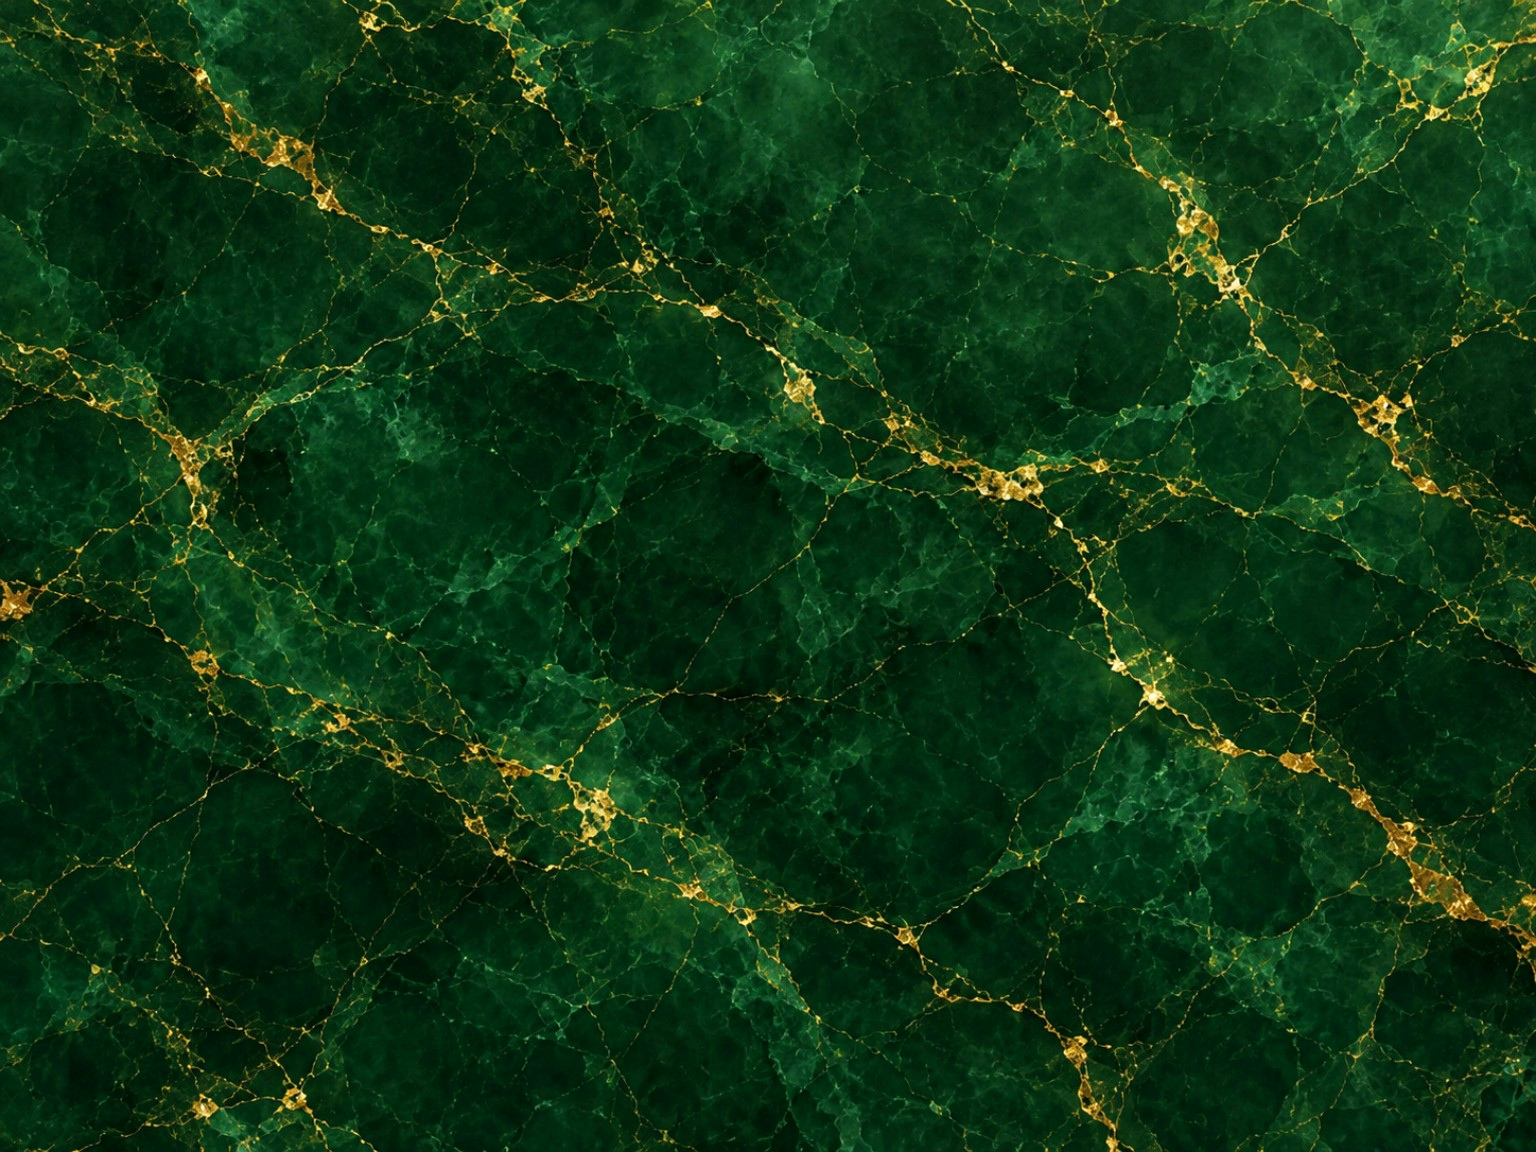
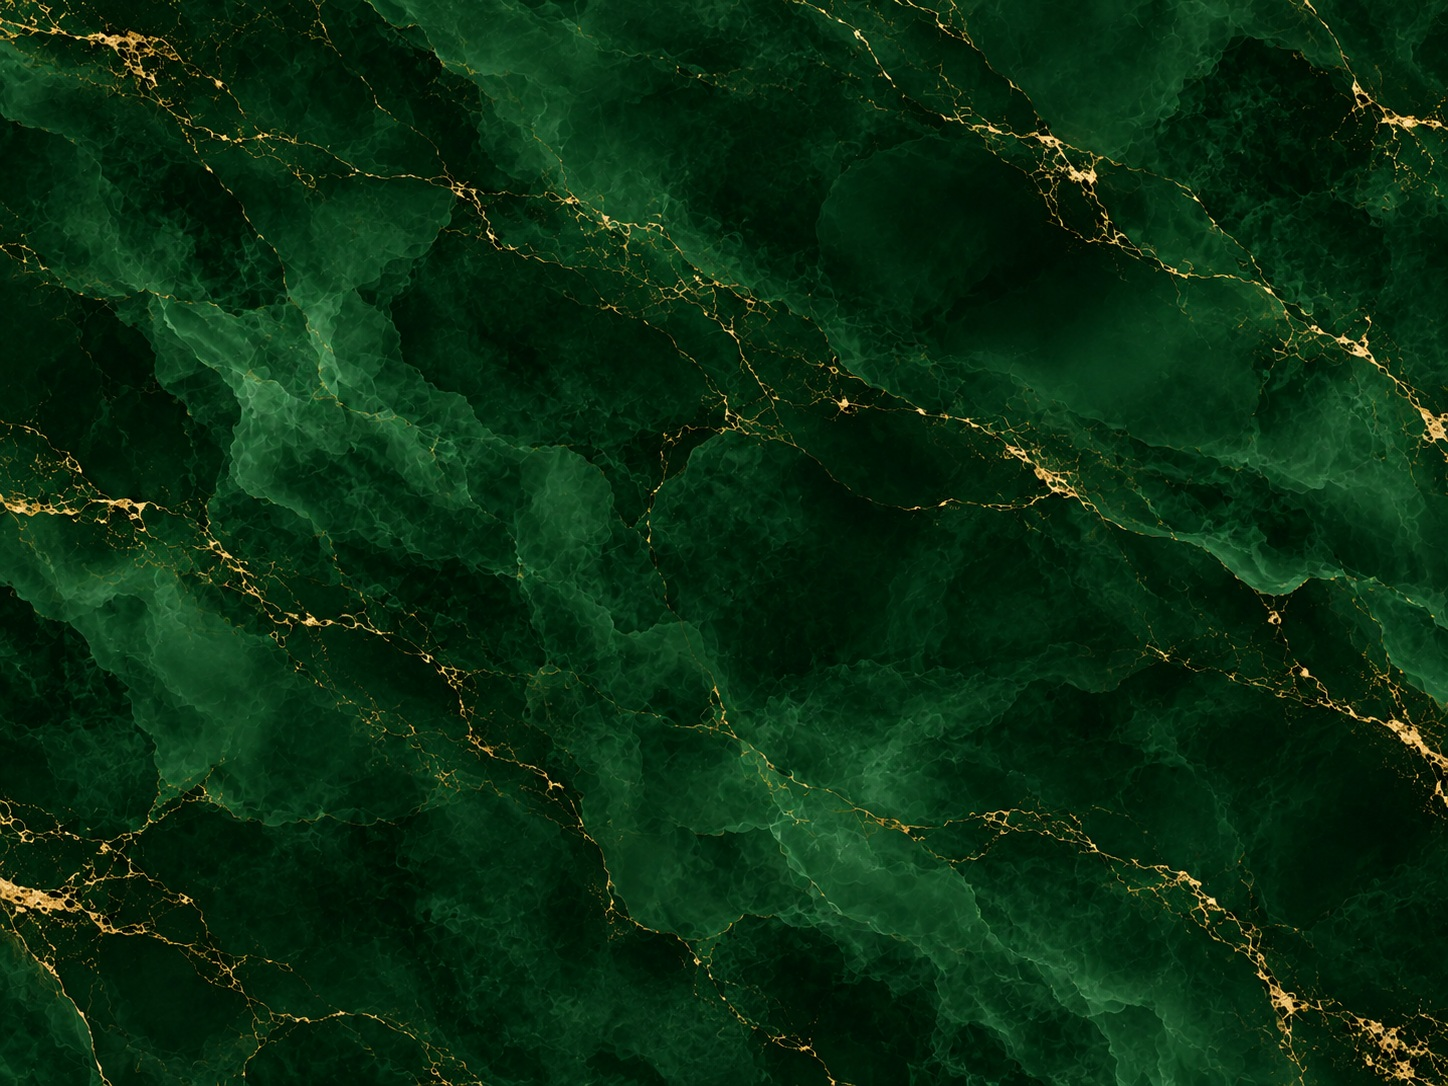
LapiGestion V3.1.28 harmonisation veto

diff --git a/lib/main.dart b/lib/main.dart
@@ -54,7 +54,7 @@ class LapibreizhApp extends StatelessWidget {
       colorScheme: ColorScheme.fromSeed(seedColor: lapiGreen, brightness: Brightness.light),
       scaffoldBackgroundColor: Colors.transparent,
       appBarTheme: const AppBarTheme(
-        backgroundColor: lapiGreenDark,
+        backgroundColor: Colors.transparent,
         foregroundColor: Colors.white,
         elevation: 0,
         scrolledUnderElevation: 0,
@@ -130,12 +130,8 @@ class LapibreizhApp extends StatelessWidget {
           iconColor: WidgetStateProperty.resolveWith(
             (states)=>states.contains(WidgetState.selected)?warmGoldText:Colors.white,
           ),
-          side: WidgetStateProperty.resolveWith(
-            (states)=>BorderSide(
-              color:states.contains(WidgetState.selected)?gold:Colors.white24,
-              width:states.contains(WidgetState.selected)?1.2:.7,
-            ),
-          ),
+          // Pas de traits internes : la sélection se lit par le texte et le fond.
+          side: const WidgetStatePropertyAll(BorderSide(color:Colors.transparent,width:0)),
           shape: WidgetStatePropertyAll(RoundedRectangleBorder(borderRadius: BorderRadius.circular(14))),
         ),
       ),
@@ -1494,7 +1490,7 @@ class _RacePickerDialogState extends State<RacePickerDialog>{
   @override Widget build(BuildContext context){
     final races=RabbitBreedCatalog.racesFor(category:category,query:query);
     return Dialog.fullscreen(child:Scaffold(
-      appBar:AppBar(title:Text(widget.title),leading:IconButton(onPressed:()=>Navigator.pop(context),icon:const Icon(Icons.close))),
+      appBar:AppBar(backgroundColor:Colors.transparent,flexibleSpace:const PremiumMarbleBar(),title:Text(widget.title),leading:IconButton(onPressed:()=>Navigator.pop(context),icon:const Icon(Icons.close))),
       body:Column(children:[
         Padding(padding:const EdgeInsets.all(14),child:TextField(
           autofocus:false,
@@ -1545,7 +1541,7 @@ class _BreedColorPickerDialogState extends State<BreedColorPickerDialog>{
       return available&&(q.isEmpty||name.toLowerCase().contains(q));
     }).toList();
     return Dialog.fullscreen(child:Scaffold(
-      appBar:AppBar(title:const Text('Choisir la couleur / variété'),leading:IconButton(onPressed:()=>Navigator.pop(context),icon:const Icon(Icons.close))),
+      appBar:AppBar(backgroundColor:Colors.transparent,flexibleSpace:const PremiumMarbleBar(),title:const Text('Choisir la couleur / variété'),leading:IconButton(onPressed:()=>Navigator.pop(context),icon:const Icon(Icons.close))),
       body:Column(children:[
         Padding(
           padding:const EdgeInsets.fromLTRB(14,14,14,6),
@@ -2055,7 +2051,7 @@ BoxDecoration premiumMarbleDecoration({
     ),
   ),
   borderRadius:BorderRadius.circular(radius),
-  border:Border.all(color:selected?const Color(0xFFFFE39A):const Color(0xFFF2C85F),width:selected?1.45:.95),
+  border:Border.all(color:selected?gold.withValues(alpha:.42):gold.withValues(alpha:.22),width:selected?.85:.55),
   boxShadow:[
     BoxShadow(
       color:Colors.black.withValues(alpha:selected ? .13 : .07),
@@ -2303,6 +2299,21 @@ class PremiumFilledButton extends StatelessWidget {
   }
 }
 
+/// Texture commune des bandeaux supérieurs : même identité sur tous les écrans.
+class PremiumMarbleBar extends StatelessWidget {
+  const PremiumMarbleBar({super.key});
+  @override Widget build(BuildContext context)=>DecoratedBox(
+    decoration:const BoxDecoration(
+      image:DecorationImage(
+        image:AssetImage('assets/images/lapigestion_green_marble.jpg'),
+        fit:BoxFit.cover,
+        alignment:Alignment.center,
+      ),
+    ),
+    child:ColoredBox(color:Color(0x1800180F)),
+  );
+}
+
 /// SegmentedButton posé sur le même marbre vert/or afin d'éviter les aplats verts ternes.
 class PremiumSegmentedButton<T> extends StatelessWidget {
   final List<ButtonSegment<T>> segments;
@@ -2342,7 +2353,10 @@ class PremiumSegmentedButton<T> extends StatelessWidget {
         style:const ButtonStyle(
           backgroundColor:WidgetStatePropertyAll(Colors.transparent),
           surfaceTintColor:WidgetStatePropertyAll(Colors.transparent),
-        ).merge(style),
+          side:WidgetStatePropertyAll(BorderSide(color:Colors.transparent,width:0)),
+        ).merge(style).copyWith(
+          side:const WidgetStatePropertyAll(BorderSide(color:Colors.transparent,width:0)),
+        ),
       ),
     ),
   );
@@ -2385,8 +2399,9 @@ class VeterinaryService {
   static bool _nacMention(Map<String,dynamic> tags){
     // Priorité aux balises qui décrivent réellement l'activité ou les espèces soignées.
     const relevantKeys=[
-      'animal','animals','veterinary','veterinary:speciality','healthcare:speciality',
-      'speciality','description','name','operator','service','services',
+      'animal','animals','animal:species','species','veterinary','veterinary:speciality',
+      'veterinary:specialty','healthcare:speciality','healthcare:specialty','speciality',
+      'specialty','description','name','operator','service','services','healthcare',
     ];
     final text=relevantKeys
         .map((key)=>tags[key])
@@ -2396,7 +2411,9 @@ class VeterinaryService {
     const words=[
       'nac','nouveaux animaux de compagnie','exotic','exotics','exotique',
       'rabbit','rabbits','lapin','lapins','rodent','rodents','rongeur','rongeurs',
-      'reptile','reptiles','avian','oiseau','oiseaux','ferret','furet','furets',
+      'reptile','reptiles','avian','oiseau','oiseaux','bird','birds','ferret','ferrets',
+      'furet','furets','guinea pig','guinea pigs','cochon d inde','cobaye','cobayes',
+      'chinchilla','hamster','hamsters','exotic animal','exotic animals',
     ];
     return words.any(text.contains);
   }
@@ -2475,6 +2492,9 @@ class VeterinaryService {
       'node["healthcare"="veterinary"](around:$radius,$latitude,$longitude);'
       'way["healthcare"="veterinary"](around:$radius,$latitude,$longitude);'
       'relation["healthcare"="veterinary"](around:$radius,$latitude,$longitude);'
+      'node["healthcare:speciality"~"veterinary",i](around:$radius,$latitude,$longitude);'
+      'way["healthcare:speciality"~"veterinary",i](around:$radius,$latitude,$longitude);'
+      'relation["healthcare:speciality"~"veterinary",i](around:$radius,$latitude,$longitude);'
       ');out center tags qt;';
 
     final decoded=await _queryOverpass(query);
@@ -2583,6 +2603,7 @@ class VeterinaryResultsPage extends StatelessWidget {
 
     return Scaffold(
       appBar:AppBar(
+      flexibleSpace:const PremiumMarbleBar(),
         title:Text(filter=='NAC'?'Vétérinaires NAC identifiés':'Vétérinaires autour de moi'),
       ),
       body:visible.isEmpty
@@ -2806,7 +2827,6 @@ class _HomePageState extends State<HomePage>{
             fit:BoxFit.cover,
             opacity:.96,
           ),
-          border:const Border(top:BorderSide(color:gold,width:1.1)),
           boxShadow:[BoxShadow(color:Colors.black.withValues(alpha:.18),blurRadius:14,offset:const Offset(0,-4))],
         ),
         child:Stack(children:[
@@ -4061,6 +4081,7 @@ class _HomePageState extends State<HomePage>{
                         onSelectionChanged:homeOrganizing?null:(v)=>setAppMode(v.first),
                         style:ButtonStyle(
                           visualDensity:VisualDensity.compact,
+                          side:const WidgetStatePropertyAll(BorderSide(color:Colors.transparent,width:0)),
                           shape:WidgetStatePropertyAll(RoundedRectangleBorder(borderRadius:BorderRadius.circular(5))),
                         ),
                       ),
@@ -4160,6 +4181,7 @@ class _RabbitPageState extends State<RabbitPage>{
     await showDialog(context:context,builder:(dialogContext)=>Dialog.fullscreen(child:Scaffold(
       backgroundColor:Colors.black,
       appBar:AppBar(
+      flexibleSpace:const PremiumMarbleBar(),
         backgroundColor:ink,foregroundColor:gold,title:const Text('Photo du lapin'),
         actions:[
           IconButton(tooltip:'Remplacer',onPressed:()async{Navigator.pop(dialogContext);await replaceRabbitPhoto();},icon:const Icon(Icons.photo_camera_back_outlined)),
@@ -5276,6 +5298,7 @@ class _RabbitPageState extends State<RabbitPage>{
       await showDialog(context:context,builder:(dialogContext)=>Dialog.fullscreen(child:Scaffold(
         backgroundColor:Colors.black,
         appBar:AppBar(
+      flexibleSpace:const PremiumMarbleBar(),
           backgroundColor:ink,foregroundColor:gold,title:Text(label),
           actions:[
             IconButton(tooltip:'Remplacer',onPressed:()async{Navigator.pop(dialogContext);await attach(key);},icon:const Icon(Icons.swap_horiz)),
@@ -5828,8 +5851,11 @@ class _RabbitPageState extends State<RabbitPage>{
           top:false,
           child:Container(
             decoration:const BoxDecoration(
-              gradient:LinearGradient(colors:[Color(0xFF0D3A26),Color(0xFF145438)]),
-              border:Border(top:BorderSide(color:Color(0x66D4AF67))),
+              image:DecorationImage(
+                image:AssetImage('assets/images/lapigestion_green_marble.jpg'),
+                fit:BoxFit.cover,
+                opacity:.98,
+              ),
             ),
             child:Row(children:[
               Expanded(child:_rabbitBottomNavItem(Icons.home_outlined,'Accueil',false,()=>Navigator.pop(context))),
@@ -5848,12 +5874,7 @@ class _RabbitPageState extends State<RabbitPage>{
           elevation:0,
           pinned:true,
           toolbarHeight:54,
-          flexibleSpace:Container(
-            decoration:const BoxDecoration(
-              gradient:LinearGradient(begin:Alignment.topLeft,end:Alignment.bottomRight,colors:[heroGreen,heroGreen2]),
-              border:Border(bottom:BorderSide(color:Color(0x55D4AF67))),
-            ),
-          ),
+          flexibleSpace:const PremiumMarbleBar(),
           title:Text(
             rr['name'].isEmpty?'Fiche du lapin':rr['name'],
             style:const TextStyle(fontFamily:'serif',fontSize:20,fontWeight:FontWeight.w800,color:Colors.white),
@@ -7160,7 +7181,7 @@ class _CompetitionDialogState extends State<CompetitionDialog>{
     final hasPhoto=newPhotoSource!=null||(!removePhoto&&((d['photo']??'') as String).isNotEmpty);
     final hasSheet=newSheetSource!=null||(!removeSheet&&((d['judgingSheet']??'') as String).isNotEmpty);
     return Dialog.fullscreen(child:Scaffold(
-      appBar:AppBar(title:const Text('Concours & Exposition'),actions:[TextButton(onPressed:save,child:const Text('ENREGISTRER'))]),
+      appBar:AppBar(backgroundColor:Colors.transparent,flexibleSpace:const PremiumMarbleBar(),title:const Text('Concours & Exposition'),actions:[TextButton(onPressed:save,child:const Text('ENREGISTRER'))]),
       body:ListView(padding:const EdgeInsets.all(16),children:[
         Container(
           padding:const EdgeInsets.all(14),
@@ -7459,6 +7480,7 @@ class _SquareCropPageState extends State<SquareCropPage>{
   @override Widget build(BuildContext context)=>Scaffold(
     backgroundColor:Colors.black,
     appBar:AppBar(
+      flexibleSpace:const PremiumMarbleBar(),
       backgroundColor:ink,foregroundColor:gold,title:const Text('Cadrer la photo'),
       actions:[TextButton(
         onPressed:cropping?null:(){setState(()=>cropping=true);controller.crop();},
@@ -7728,6 +7750,7 @@ class _EngagementCertificateDialogState extends State<EngagementCertificateDialo
 
     return Dialog.fullscreen(child:Scaffold(
       appBar:AppBar(
+      flexibleSpace:const PremiumMarbleBar(),
         title:const Text('Certificat d’engagement'),
         actions:[TextButton(onPressed:save,child:const Text('ENREGISTRER'))],
       ),
@@ -7949,7 +7972,7 @@ class _AdoptionDialogState extends State<AdoptionDialog>{
   }
 
   @override Widget build(BuildContext context)=>Dialog.fullscreen(child:Scaffold(
-    appBar:AppBar(title:const Text('Adoption & départ'),actions:[TextButton(onPressed:()=>widget.onSave(d),child:const Text('ENREGISTRER'))]),
+    appBar:AppBar(backgroundColor:Colors.transparent,flexibleSpace:const PremiumMarbleBar(),title:const Text('Adoption & départ'),actions:[TextButton(onPressed:()=>widget.onSave(d),child:const Text('ENREGISTRER'))]),
     body:ListView(padding:const EdgeInsets.all(16),children:[
       const Text('Statut du lapin',style:TextStyle(fontSize:21,fontWeight:FontWeight.w900,color:ink)),
       const SizedBox(height:10),
@@ -8187,6 +8210,7 @@ class _BreedingDialogState extends State<BreedingDialog>{
     final currentPartner=(d[partnerKey]??'') as String;
     return Dialog.fullscreen(child:Scaffold(
       appBar:AppBar(
+      flexibleSpace:const PremiumMarbleBar(),
         title:Text(currentIsMale?'Saillie du mâle':'Saillie / portée de la femelle'),
         actions:[TextButton(onPressed:(){
           if(((d['matingDate']??'') as String).isEmpty||((d[partnerKey]??'') as String).isEmpty){
@@ -8447,6 +8471,7 @@ class _MedicationDialogState extends State<MedicationDialog>{
 
   @override Widget build(BuildContext context)=>Dialog.fullscreen(child:Scaffold(
     appBar:AppBar(
+      flexibleSpace:const PremiumMarbleBar(),
       title:Text(((widget.item['name']??'') as String).isEmpty?'Nouveau traitement':'Modifier le traitement'),
       actions:[TextButton(onPressed:save,child:const Text('ENREGISTRER'))],
     ),
@@ -8578,6 +8603,7 @@ class _AppointmentDialogState extends State<AppointmentDialog>{
 
   @override Widget build(BuildContext context)=>Dialog.fullscreen(child:Scaffold(
     appBar:AppBar(
+      flexibleSpace:const PremiumMarbleBar(),
       title:Text(widget.item['date']?.toString().isEmpty==false?'Modifier le rendez-vous':'Nouveau rendez-vous'),
       actions:[TextButton(onPressed:(){
         if(((d['date']??'') as String).isEmpty){
